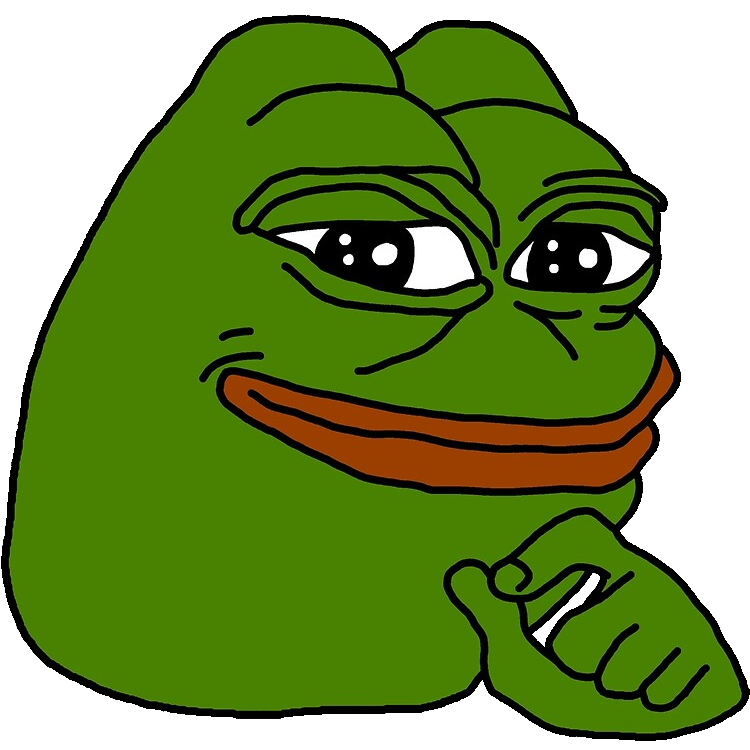
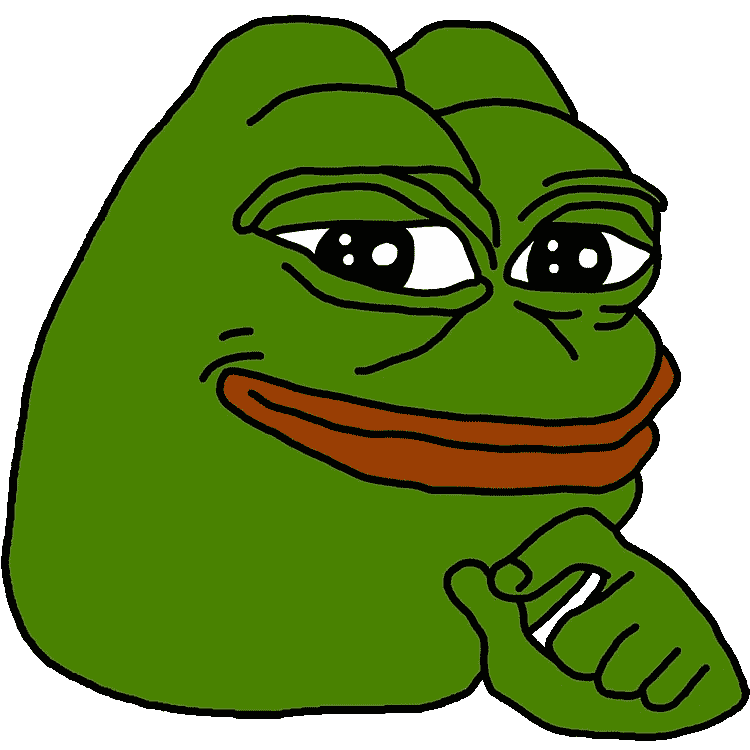
smaller image sizes

diff --git a/src/app/darkmoon-faire/box.js b/src/app/darkmoon-faire/box.js
@@ -3,7 +3,7 @@ import moment from 'moment-timezone';
 import React, { useMemo } from 'react';
 
 import { Box, Countdown, Title } from '../components';
-import DarkmoonFaireImage from '../images/darkmoon-faire.png';
+import DarkmoonFaireImage from '../images/darkmoon-faire.jpg';
 import { useTimezone } from '../utils';
 import getMonth from './get-month';
 

diff --git a/src/app/consumables/link.js b/src/app/consumables/link.js
@@ -4,7 +4,7 @@ import { Link } from 'wouter';
 
 import { focusStyling } from '../app';
 import { Box, Title } from '../components';
-import Image from '../images/consumables.png';
+import Image from '../images/consumables.jpg';
 
 export default () => {
   return <Link href="/consumables">
